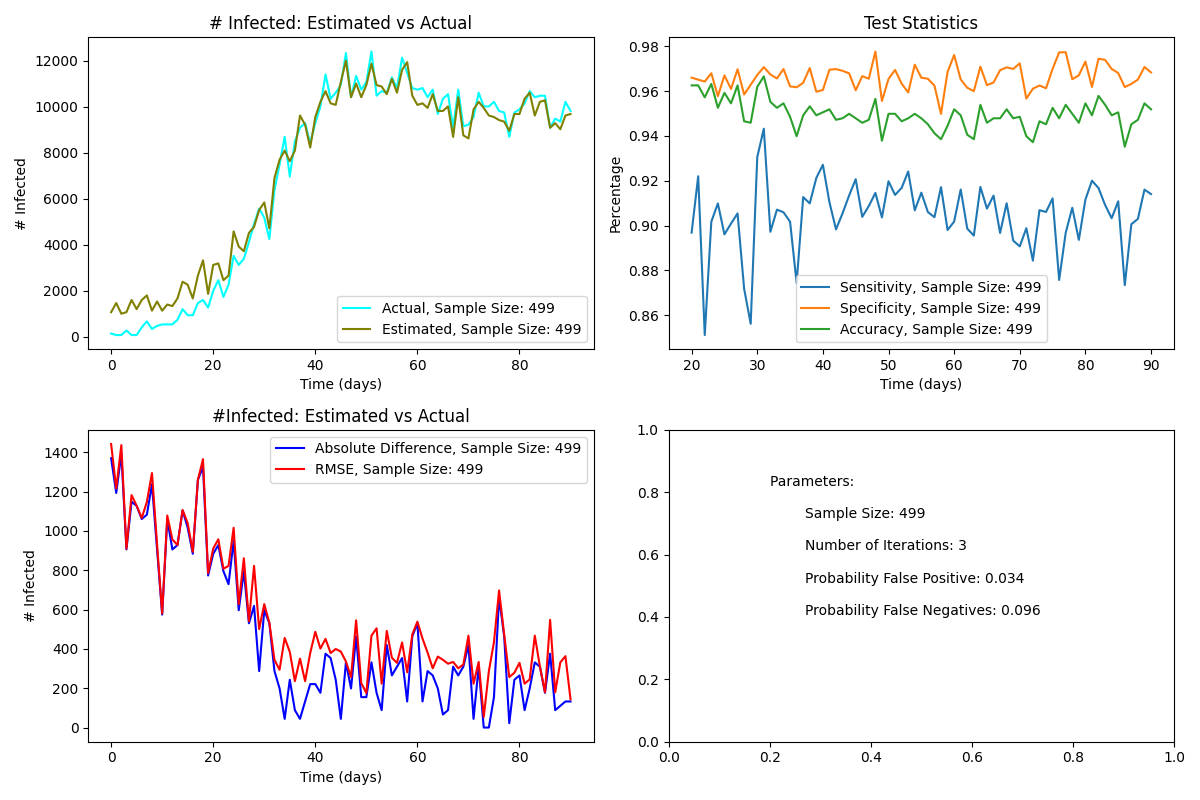
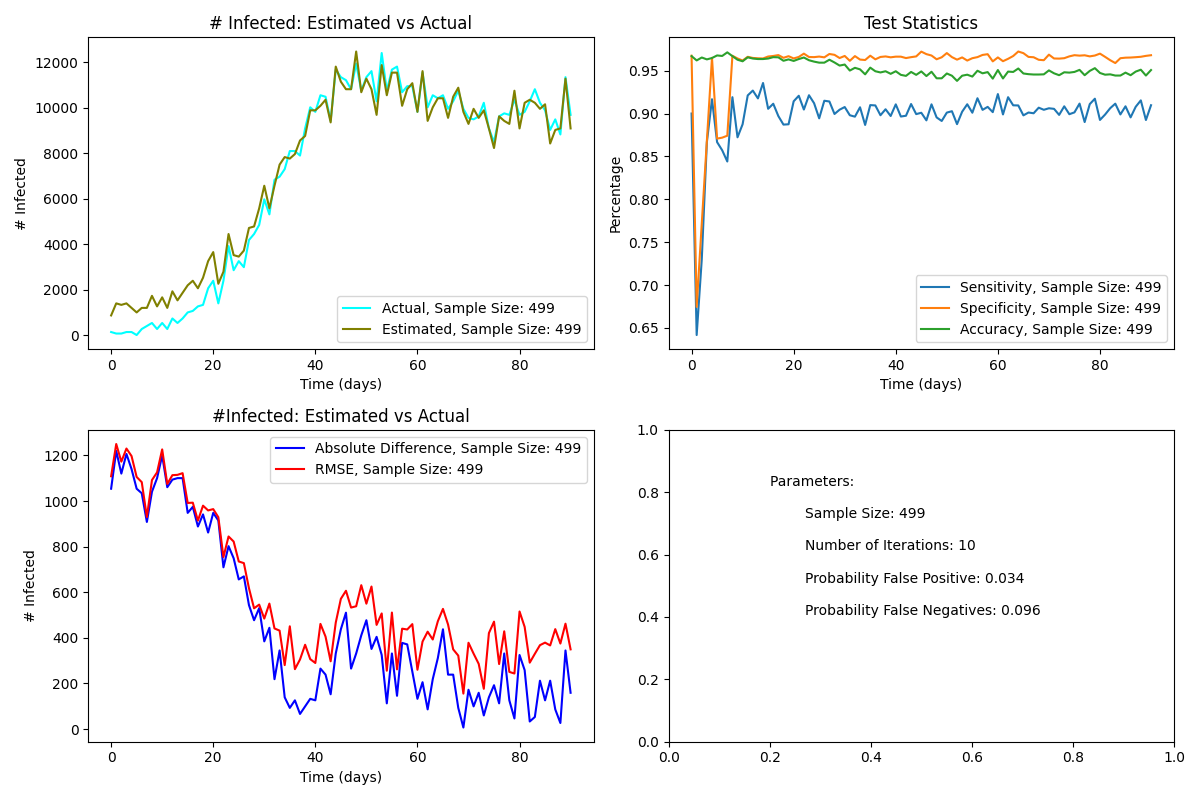
Checkpoint for start of changes

diff --git a/epios/post_process.py b/epios/post_process.py
@@ -33,10 +33,11 @@ class PostProcess():
 
     '''
 
-    def __init__(self, demo_data: pd.DataFrame, time_data: pd.DataFrame):
+    def __init__(self, demo_data: pd.DataFrame, time_data: pd.DataFrame, inf_data: pd.DataFrame = None):
         self.demo_data = demo_data
         self.time_data = time_data
-        self.predict = self.Prediction(demo_data=demo_data, time_data=time_data)
+        self.inf_data = inf_data
+        self.predict = self.Prediction(demo_data=demo_data, time_data=time_data, inf_data=inf_data)
 
     class Prediction():
         '''
@@ -56,7 +57,7 @@ class PostProcess():
 
         '''
 
-        def __init__(self, demo_data: pd.DataFrame, time_data: pd.DataFrame):
+        def __init__(self, demo_data: pd.DataFrame, time_data: pd.DataFrame, inf_data: pd.DataFrame = None):
             '''
             This is to put the information within the PostProcess class into this sub-class.
 
@@ -64,6 +65,7 @@ class PostProcess():
             '''
             self.demo_data = demo_data
             self.time_data = time_data
+            self.inf_data = inf_data
 
         def AgeRegion(self, sample_size, time_sample, non_responder=False,
                       comparison=True, non_resp_rate=None, sample_strategy='Random',
@@ -525,7 +527,8 @@ class PostProcess():
 
                     # Get the results of people sampled
                     X = SamplingMaker(non_resp_rate=non_resp_rate, keep_track=True, data=self.time_data,
-                                      false_positive=false_positive, false_negative=false_negative, threshold=None)
+                                      false_positive=false_positive, false_negative=false_negative, threshold=None,
+                                      inf_data=self.inf_data)
                     ite = X([time_sample[i]], people)
 
                     # After each sample, now deal with the additional samples
@@ -651,7 +654,8 @@ class PostProcess():
 
                     # Get results of each people sampled
                     X = SamplingMaker(non_resp_rate=0, keep_track=True, data=self.time_data,
-                                      false_positive=false_positive, false_negative=false_negative, threshold=None)
+                                      false_positive=false_positive, false_negative=false_negative, threshold=None,
+                                      inf_data=self.inf_data)
                     ite = X(time_sample, people)
 
                     # Output the infected rate
@@ -704,7 +708,8 @@ class PostProcess():
 
                         # Get the results of each people sampled
                         X = SamplingMaker(non_resp_rate=0, keep_track=True, data=self.time_data,
-                                          false_positive=false_positive, false_negative=false_negative, threshold=None)
+                                          false_positive=false_positive, false_negative=false_negative, threshold=None,
+                                          inf_data=self.inf_data)
                         ite = X([time_sample[i]], people)
 
                         # Output the infected rate
@@ -785,7 +790,8 @@ class PostProcess():
 
                 # Get results of each people sampled
                 X = SamplingMaker(non_resp_rate=0, keep_track=True, data=self.time_data,
-                                  false_positive=false_positive, false_negative=false_negative, threshold=None)
+                                  false_positive=false_positive, false_negative=false_negative, threshold=None,
+                                  inf_data=self.inf_data)
                 ite = X(time_sample, people)
 
                 # Output the infected rate
@@ -828,7 +834,8 @@ class PostProcess():
 
                     # Get the results of each people sampled
                     X = SamplingMaker(non_resp_rate=0, keep_track=True, data=self.time_data,
-                                      false_positive=false_positive, false_negative=false_negative, threshold=None)
+                                      false_positive=false_positive, false_negative=false_negative, threshold=None,
+                                      inf_data=self.inf_data)
                     ite = X([time_sample[i]], people)
 
                     # Output the infected rate

diff --git a/epios/sampling_maker.py b/epios/sampling_maker.py
@@ -39,7 +39,8 @@ class SamplingMaker():
     '''
 
     def __init__(self, non_resp_rate=0, keep_track=False, data=None,
-                 false_positive=0, false_negative=0, threshold=None):
+                 false_positive=0, false_negative=0, threshold=None,
+                 inf_data=None):
         self.non_resp_rate = non_resp_rate
         self.recognised = [3, 4, 5, 6, 7, 8]
         self.threshold = threshold
@@ -47,6 +48,7 @@ class SamplingMaker():
         self.false_negative = false_negative
         self.keep_track = keep_track
         self.data = data
+        self.inf_data = inf_data
 
     def __call__(self, sampling_times, people):
 
@@ -68,19 +70,25 @@ class SamplingMaker():
             A list of pandas.DataFrame objects otherwise.
 
         '''
+        
 
         if self.keep_track:
             STATUSES = self.data.loc[sampling_times, people]
-            return STATUSES.apply(lambda x: list(map(self._testresult, x)))
+            VIRAL_LOADS = self.inf_data.loc[sampling_times, people]
+            INFO = [STATUSES, VIRAL_LOADS]
+            return STATUSES.apply(lambda x: list(map(self._testresult, x, VIRAL_LOADS)))
         else:
             # STATUSES is an iterator that returns the loads of the next group of people selected for testing
             # SINGLETEST is a function that maps testresult on the loads of a group of people
             times_people = zip(sampling_times, people)
             STATUSES = map(lambda t: self.data.loc[[t[0]], t[1]], times_people)
+            VIRAL_LOADS = map(lambda t: self.inf_data.loc[[t[0]], t[1]], times_people)
             SINGLETEST = lambda x: x.apply(lambda x: list(map(self._testresult, x)))
-            return list(map(SINGLETEST, STATUSES))
+            return list(map(SINGLETEST, STATUSES, VIRAL_LOADS))
+        
 
-    def _testresult(self, load):
+
+    def _testresult(self, load, infectiousness):
         '''
         Method to return the result for one test
 
@@ -88,6 +96,8 @@ class SamplingMaker():
         Otherwise, it is the viral load of the tested person.
         Possible outputs are 'NonResponder', 'Positive', 'Negative'.
         '''
+
+        print(infectiousness)
 
         if bool(binomial(1, self.non_resp_rate)):
 

diff --git a/gibraltar_ex/imperfect_testing_analysis.py b/gibraltar_ex/imperfect_testing_analysis.py
@@ -231,9 +231,10 @@ if __name__ == "__main__":
     path = './gibraltar_ex'
     demo_data = pd.read_csv(f'{path}/demographics.csv')
     time_data = pd.read_csv(f'{path}/inf_status_history.csv')
+    inf_data = pd.read_csv(f'{path}/infectiousness_history.csv')
 
     # define the PostProcess class instance
-    postprocess = epios.PostProcess(time_data=time_data, demo_data=demo_data)
+    postprocess = epios.PostProcess(time_data=time_data, demo_data=demo_data, inf_data=inf_data)
 
     # get sample times
     sample_times = [t for t in range(0, 91)]
@@ -246,8 +247,8 @@ if __name__ == "__main__":
         # call analysis function
         test = analyse_imperfect_testing(sample_times=sample_times, 
                                                     sample_range=[100, 500], 
-                                                    num_samples=2, 
-                                                    num_iterations=10, 
+                                                    num_samples=1, 
+                                                    num_iterations=1, 
                                                     false_positive=0.034,
                                                     false_negative=0.096,
                                                     stats_start_time=0)
